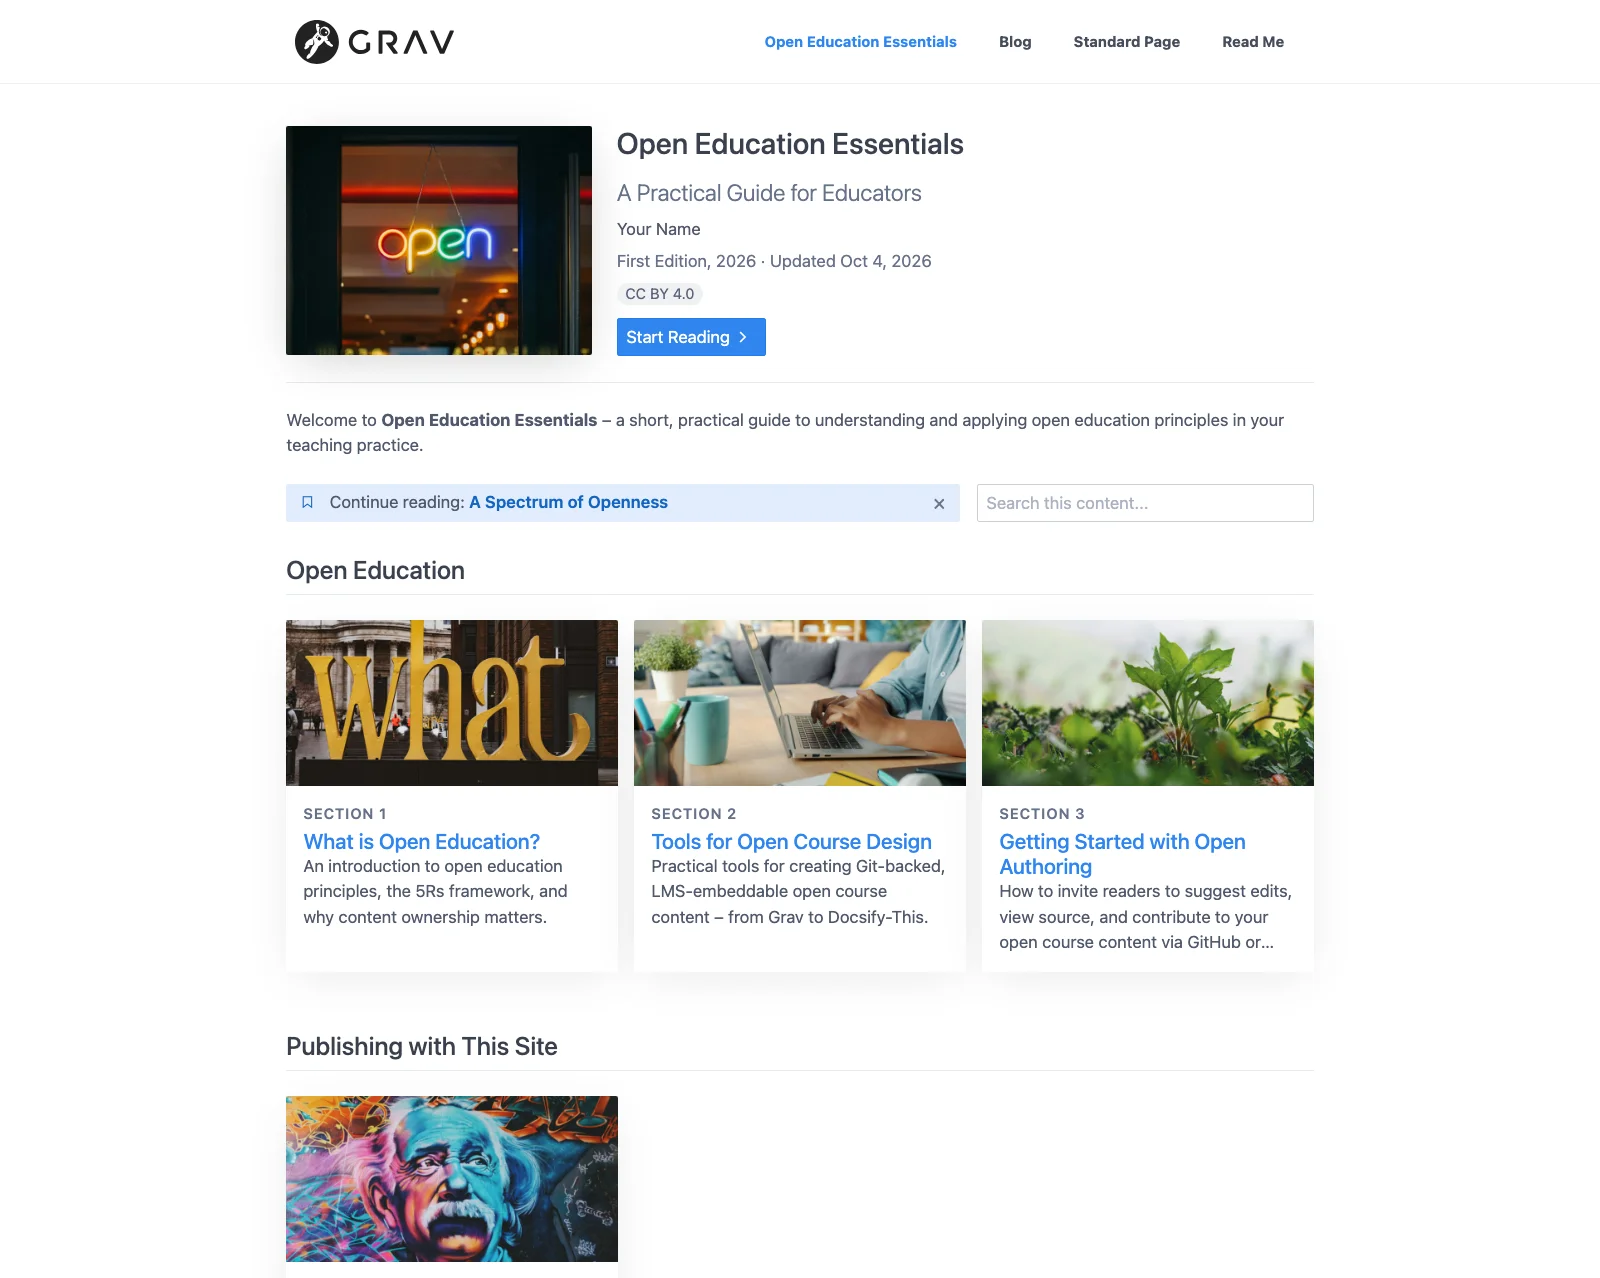
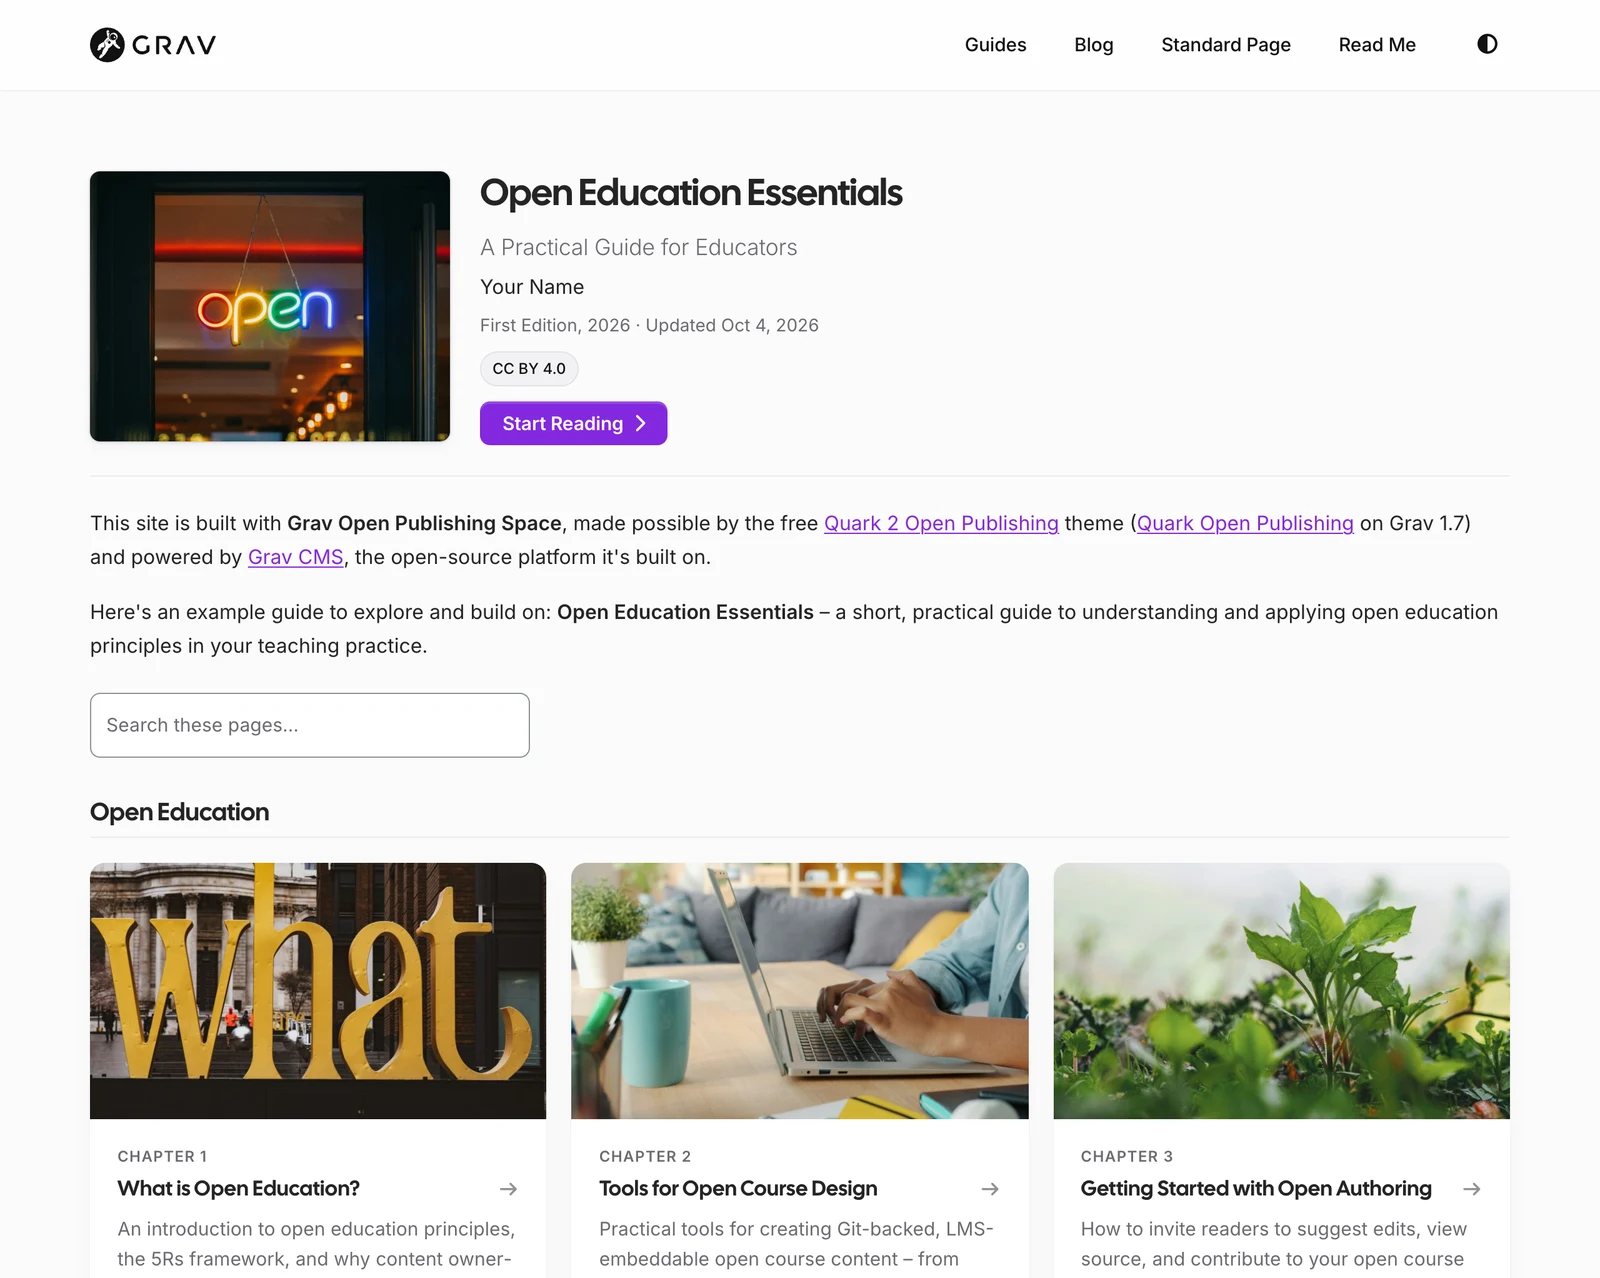
Update screenshots.

diff --git a/README.md b/README.md
@@ -12,7 +12,7 @@
 
 <p>A free, open-source package built on <a href="https://getgrav.org">Grav CMS</a> and the <a href="https://github.com/hibbitts-design/grav-theme-quark2-open-publishing">Quark 2 Open Publishing</a> theme (<a href="https://github.com/hibbitts-design/grav-theme-quark-open-publishing">Quark Open Publishing</a> in the Grav 1.7 version), with Markdown file-based content, a built-in Admin panel, and no database required.</p>
 
-<a href="https://raw.githubusercontent.com/hibbitts-design/grav-skeleton-open-publishing-space/refs/heads/master/screenshots/screenshot.webp"><picture><source media="(prefers-color-scheme: dark)" srcset="https://raw.githubusercontent.com/hibbitts-design/grav-skeleton-open-publishing-space/refs/heads/master/screenshots/screenshot-dark.webp"><img alt="Open Education Essentials guide homepage with a cover image, guide details, a Continue reading bar, and section cards grouped into parts" src="https://raw.githubusercontent.com/hibbitts-design/grav-skeleton-open-publishing-space/refs/heads/master/screenshots/screenshot.webp" width="49%"></picture></a> <a href="https://raw.githubusercontent.com/hibbitts-design/grav-skeleton-open-publishing-space/refs/heads/master/screenshots/screenshot-2.webp"><picture><source media="(prefers-color-scheme: dark)" srcset="https://raw.githubusercontent.com/hibbitts-design/grav-skeleton-open-publishing-space/refs/heads/master/screenshots/screenshot-2-dark.webp"><img alt="Guide section page with Learning Objectives, section navigation in the sidebar, and Previous and Next links" src="https://raw.githubusercontent.com/hibbitts-design/grav-skeleton-open-publishing-space/refs/heads/master/screenshots/screenshot-2.webp" width="49%"></picture></a><br>
+<a href="https://raw.githubusercontent.com/hibbitts-design/grav-skeleton-open-publishing-space/refs/heads/master/screenshots/screenshot.webp"><picture><source media="(prefers-color-scheme: dark)" srcset="https://raw.githubusercontent.com/hibbitts-design/grav-skeleton-open-publishing-space/refs/heads/master/screenshots/screenshot-dark.webp"><img alt="Open Education Essentials guide homepage with a small cover beside the guide details, an introduction, a search box, and section cards grouped into parts" src="https://raw.githubusercontent.com/hibbitts-design/grav-skeleton-open-publishing-space/refs/heads/master/screenshots/screenshot.webp" width="49%"></picture></a> <a href="https://raw.githubusercontent.com/hibbitts-design/grav-skeleton-open-publishing-space/refs/heads/master/screenshots/screenshot-2.webp"><picture><source media="(prefers-color-scheme: dark)" srcset="https://raw.githubusercontent.com/hibbitts-design/grav-skeleton-open-publishing-space/refs/heads/master/screenshots/screenshot-2-dark.webp"><img alt="Guide section page with Learning Objectives, the guide's sections and search in the sidebar, and a back link and Next link" src="https://raw.githubusercontent.com/hibbitts-design/grav-skeleton-open-publishing-space/refs/heads/master/screenshots/screenshot-2.webp" width="49%"></picture></a><br>
 <a href="https://raw.githubusercontent.com/hibbitts-design/grav-skeleton-open-publishing-space/refs/heads/master/screenshots/screenshot-3.webp"><picture><source media="(prefers-color-scheme: dark)" srcset="https://raw.githubusercontent.com/hibbitts-design/grav-skeleton-open-publishing-space/refs/heads/master/screenshots/screenshot-3-dark.webp"><img alt="Open Publishing Space blog with a mountain hero image, blog post cards, and a sidebar with tags and archives" src="https://raw.githubusercontent.com/hibbitts-design/grav-skeleton-open-publishing-space/refs/heads/master/screenshots/screenshot-3.webp" width="49%"></picture></a> <a href="https://raw.githubusercontent.com/hibbitts-design/grav-skeleton-open-publishing-space/refs/heads/master/screenshots/screenshot-4.webp"><picture><source media="(prefers-color-scheme: dark)" srcset="https://raw.githubusercontent.com/hibbitts-design/grav-skeleton-open-publishing-space/refs/heads/master/screenshots/screenshot-4-dark.webp"><img alt="Blog post with a typography hero image, a notice, headings, and a sidebar with related posts and tags" src="https://raw.githubusercontent.com/hibbitts-design/grav-skeleton-open-publishing-space/refs/heads/master/screenshots/screenshot-4.webp" width="49%"></picture></a>
 
 <p>Open Publishing Space – Guide homepage and section page (top), blog and blog post (bottom)</p>
@@ -150,6 +150,8 @@ Under **Themes → My Theme** (see the [Quark 2 Open Publishing](https://github.
 - **Look** – Light, Dark or Auto mode and accent colour (Quark 2 Open Publishing), or Dark Mode and text size on phones (Quark Open Publishing)
 - **Layout** – logo, header and footer style, and a chromeless site (no menu, sidebar or footer)
 - **More** – Creative Commons license, custom menu items, and the Git Sync Link (see below)
+
+Two things load from other sites: in the Grav 2 version, Font Awesome icons come from cdnjs.cloudflare.com (to serve them from your own site, add Font Awesome's files to the theme and turn on **Serve Font Awesome Locally** on the **Quark 2** tab), and in both versions, `[embedly]` link cards come from cdn.embedly.com – `[linkpreviewcard]` makes link cards on your own site instead.
 
 Sites created before Open Publishing Space 2.3.0 have a `streams` setting in `user/config/themes/mytheme.yaml` that only lists Quark Open Publishing. If guide pages then show "template not found", replace its `streams` block with the one below and clear the cache (and check `user/env/<domain>/config/themes/mytheme.yaml` too, if your site has one):
 
